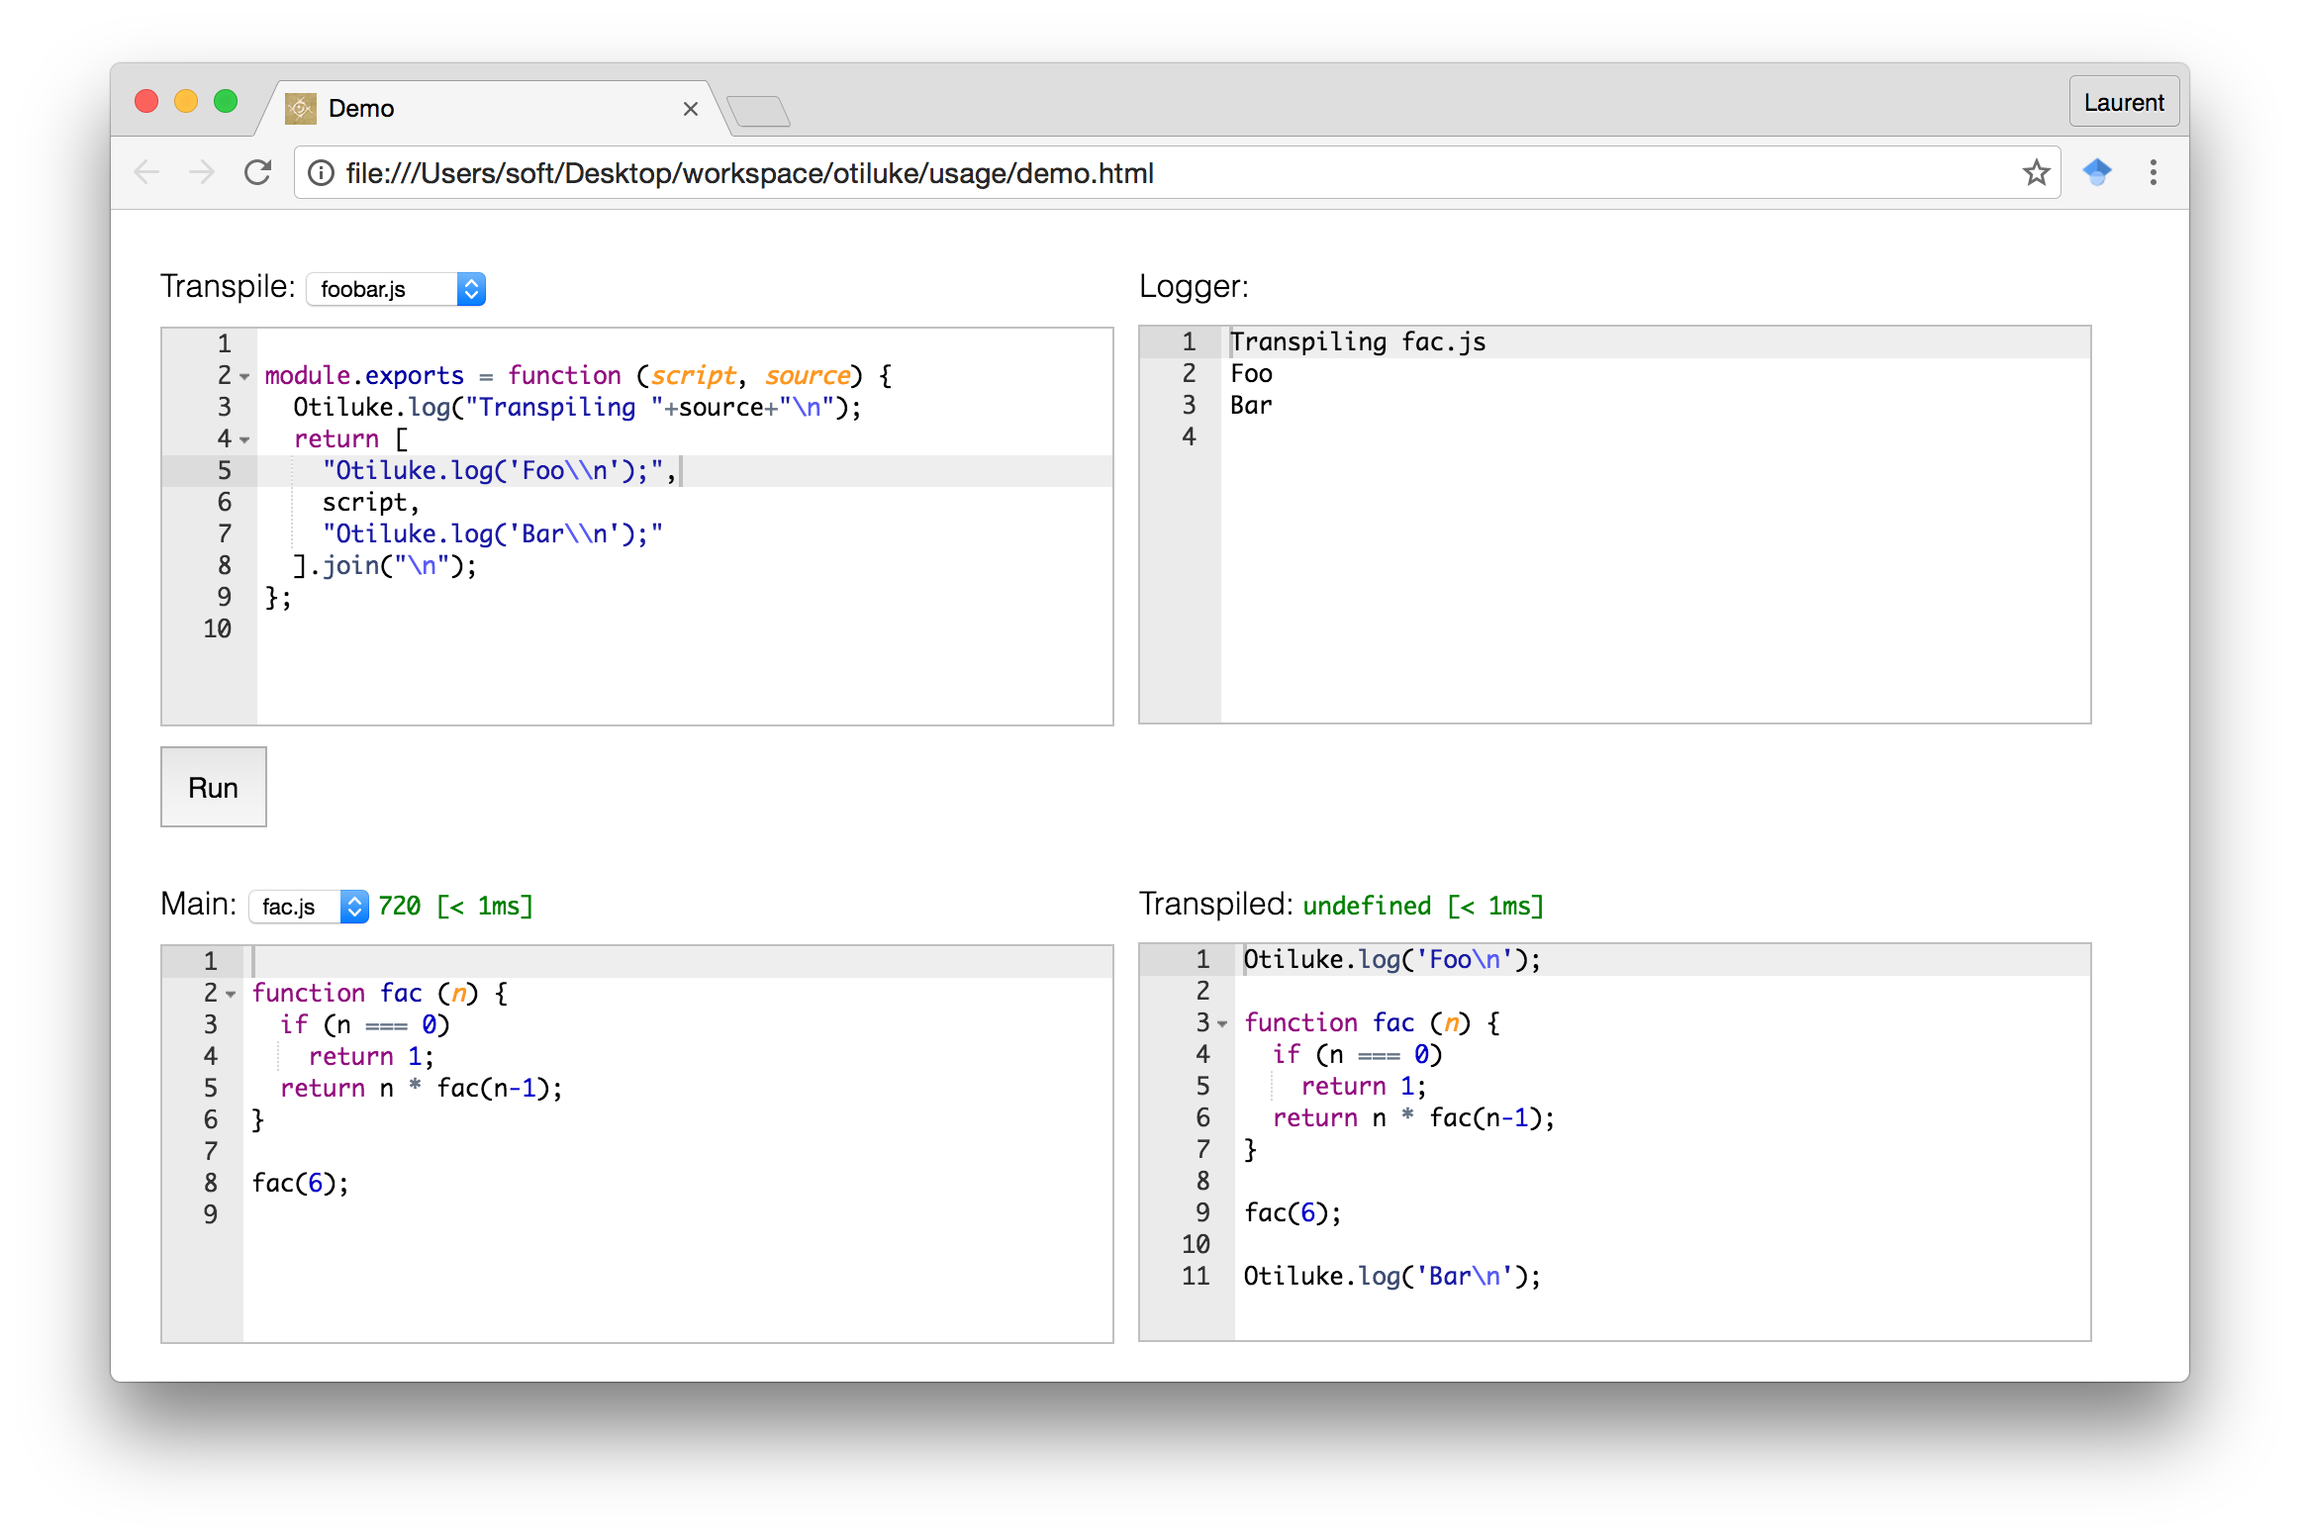
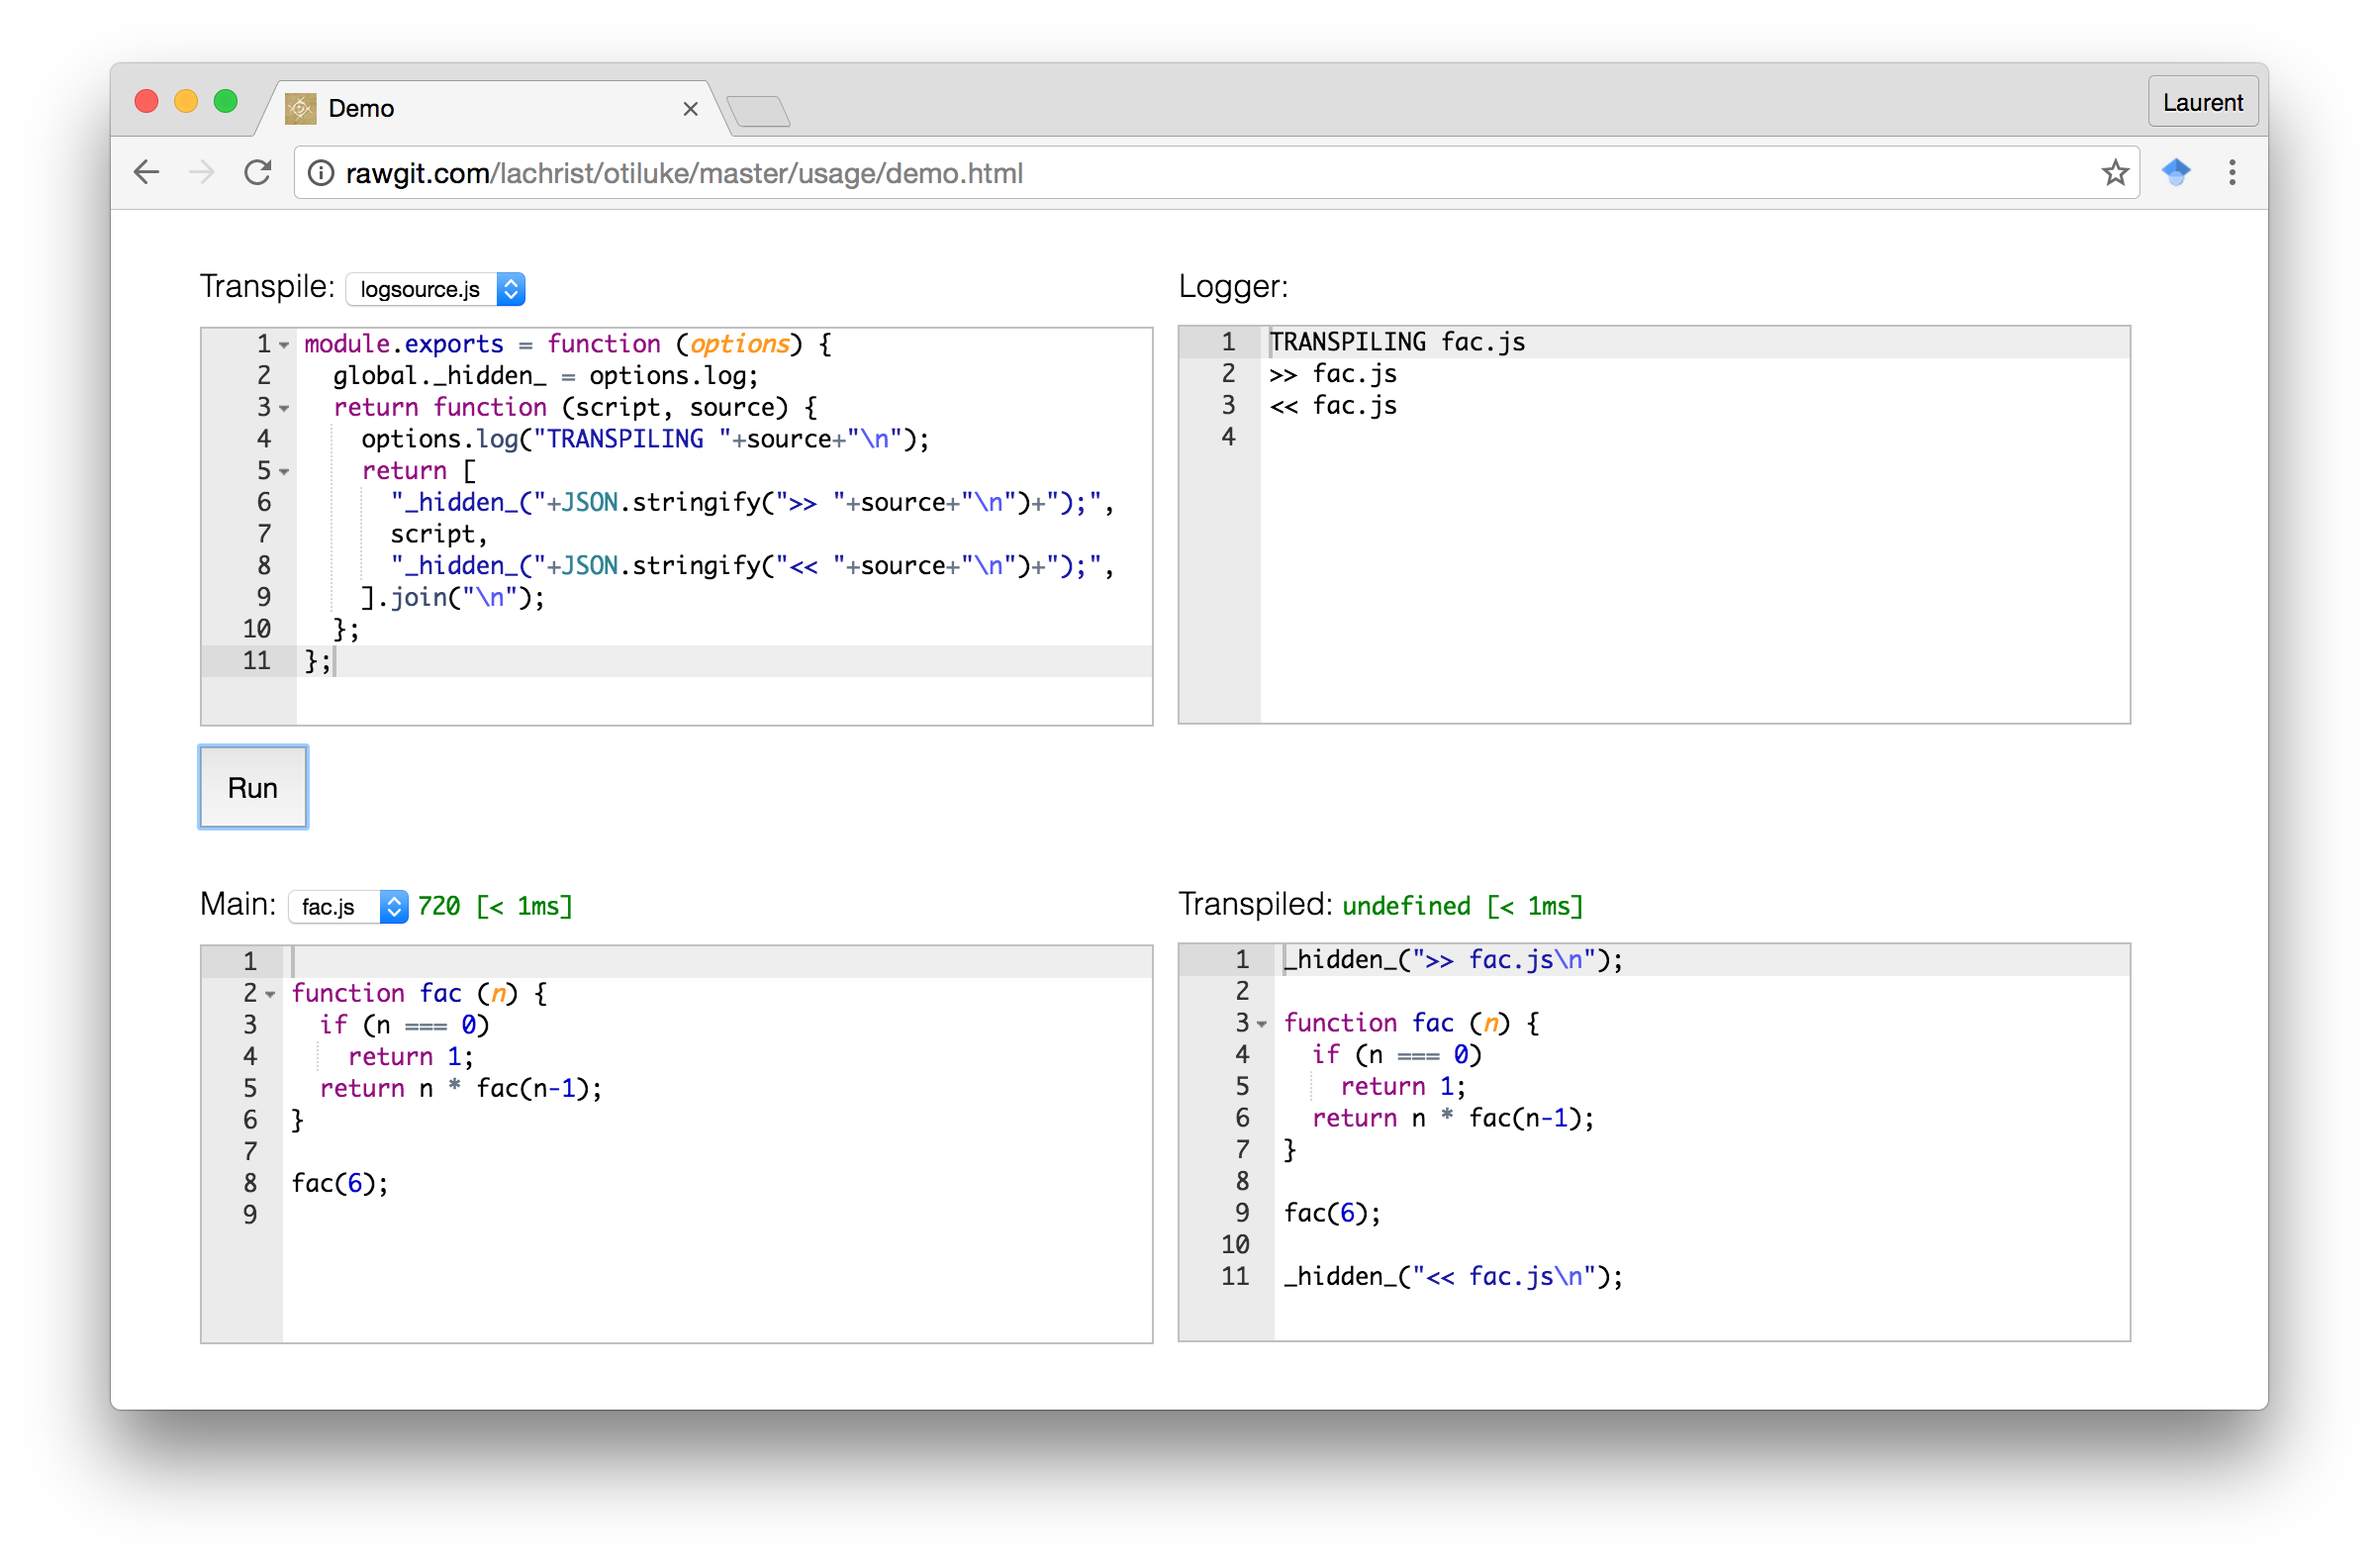
update log name's format

diff --git a/util/log.js b/util/log.js
@@ -2,7 +2,7 @@
 var Fs = require("fs");
 var Path = require("path");
 
-function tohexa (c) { return "\\x"+c.charCodeAt(0).toString(16)+"" }
+function tohexa (c) { return "\\x"+c.charCodeAt(0).toString(16).toUpperCase() }
 function sanitize (name) { return name.replace(/[\.\/\\\0\'\"]/g, tohexa) }
 
 function setup (path) {
@@ -18,14 +18,11 @@ function setup (path) {
   }
   return function (name) {
     name = sanitize(name);
-    if (names.indexOf(name) !== -1) {
-      var counter = 1;
-      while (names.indexOf(name+"|"+counter) !== -1)
-        counter++;
-      name = name+"|"+counter;
-    }
-    names.push(name);
-    return Fs.createWriteStream(path+"/"+name);
+    var counter = 0;
+    while (names.indexOf(name+"#"+counter) !== -1)
+      counter++;
+    names.push(name+"#"+counter);
+    return Fs.createWriteStream(path+"/"+name+"#"+counter);
   }
 }
 

diff --git a/test/template.js b/test/template.js
@@ -40,7 +40,7 @@ window.onload = function () {
     (m === keysM.length) && (m = 0, t++);
     if (t === keysT.length)
       return document.getElementById("json").textContent = JSON.stringify(experiments, null, 2);
-    var socket = new WebSocket("ws"+location.protocol.substring(4)+"//"+location.host+"/"+encodeURIComponent(keysM[m])+"?"+encodeURIComponent(keysT[t]));
+    var socket = new WebSocket("ws"+location.protocol.substring(4)+"//"+location.host+"/"+encodeURIComponent(keysM[m])+"?transpile="+encodeURIComponent(keysT[t]));
     socket.onopen = function () {
       var row = document.createElement("tr");
       table.appendChild(row);

diff --git a/usage/transpile/logsource.js b/usage/transpile/logsource.js
@@ -1,11 +1,11 @@
 module.exports = function (options) {
-  global.__hidden_log__ = options.log;
+  global._hidden_ = options.log;
   return function (script, source) {
     options.log("TRANSPILING "+source+"\n");
     return [
-      "__hidden_log__("+JSON.stringify("BEGIN "+source+"\n")+");",
+      "_hidden_("+JSON.stringify(">> "+source+"\n")+");",
       script,
-      "__hidden_log__("+JSON.stringify("END "+source+"\n")+");",
+      "_hidden_("+JSON.stringify("<< "+source+"\n")+");",
     ].join("\n");
   };
 };

diff --git a/README.md b/README.md
@@ -11,7 +11,7 @@ As demonstrated in [usage](./usage), Otiluke can:
 
 The transpiler module will always be executed side-by-side with the program targeted for transpilation.
 Such online transpilation process enables easy support of dynamic code evaluations such as [`eval(script)`](https://developer.mozilla.org/en-US/docs/Web/JavaScript/Reference/Global_Objects/eval).
-As illustrated below, Otiluke provides a log channel in the options to trace information gathered during the transpilation process or later, while executing the transpiled program.
+As illustrated below, Otiluke provides a log channel in the options argument to trace information gathered during the transpilation process or later, while executing the transpiled program.
 
 <img src="img/demo.png" align="center" alt="demo" title="otiluke --demo"/>
 
@@ -19,9 +19,18 @@ Otiluke's tools often understand the following important arguments: `--transpile
 As demonstrated below, Otiluke's tools can often perform several transpilations at once if these arguments point to directories instead of files.
 In such case, the resulting transpilations are the results of a [cartesian product](https://en.wikipedia.org/wiki/Cartesian_product) of the JavaScript files directly contained inside the `--transpile` and `--main` directory.
 If `--log` points to a directory, Otiluke creates a new log file inside of it for every transpilations.
-The names of these log files are URLs containing [hexadecimal escape sequence](https://mathiasbynens.be/notes/javascript-escapes#hexadecimal).
+The names of these log files are URLs containing [hexadecimal escape sequences](https://mathiasbynens.be/notes/javascript-escapes#hexadecimal).
 
 <img src="img/test.png" align="center" alt="test" title="otiluke --test"/>
+
+```shell
+> require("fs").readdirSync("./").map(function (name) { return eval("'"+name+"'") })
+[ '.gitignore',
+  '/fac.js?transpile=identity.js#0',
+  '/fac.js?transpile=logsource.js#0',
+  '/fibo.js?transpile=identity.js#0',
+  '/fibo.js?transpile=logsource.js#0' ]
+```
 
 &nbsp;&nbsp;&nbsp;Argument&nbsp;&nbsp;&nbsp; | Shortcut | &nbsp;&nbsp;&nbsp;&nbsp;&nbsp;&nbsp;&nbsp;&nbsp;&nbsp;Tool&nbsp;&nbsp;&nbsp;&nbsp;&nbsp;&nbsp;&nbsp;&nbsp;&nbsp; | Description
 --------------|----------|-------------------|-----------------------------------------------------------------------------------------------------------------------------------------------
